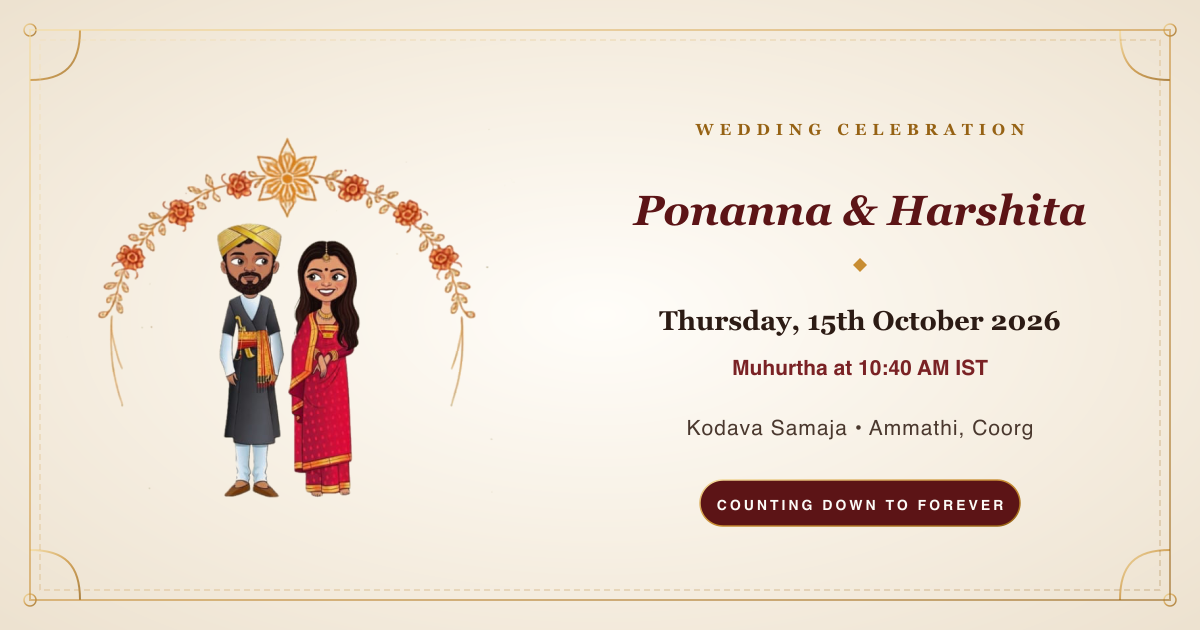
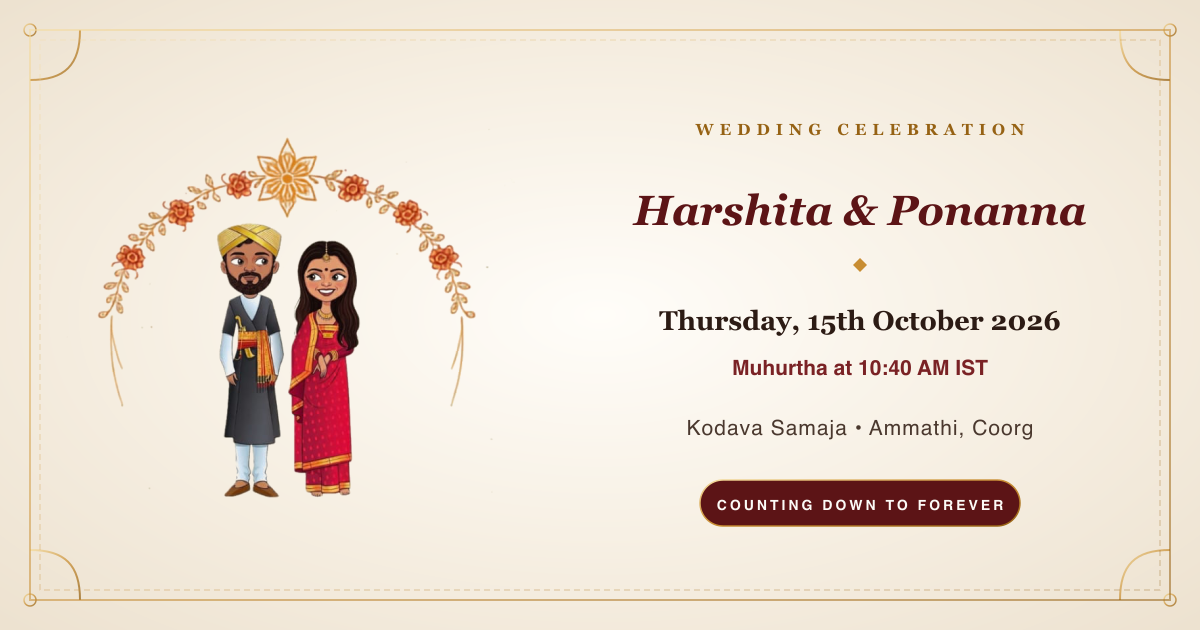
feat: place Harshita's name first across site, calendar, and preview card

Changed region(s): [[0.5242, 0.3016, 0.8942, 0.3619]]

diff --git a/index.html b/index.html
@@ -3,25 +3,25 @@
 <head>
   <meta charset="UTF-8" />
   <meta name="viewport" content="width=device-width, initial-scale=1.0, viewport-fit=cover" />
-  <title>Ponanna &amp; Harshita — Wedding Countdown</title>
-  <meta name="description" content="You are cordially invited to celebrate the wedding of Ponanna &amp; Harshita on Thursday, October 15, 2026 at Kodava Samaja, Ammathi, Coorg." />
+  <title>Harshita &amp; Ponanna — Wedding Countdown</title>
+  <meta name="description" content="You are cordially invited to celebrate the wedding of Harshita &amp; Ponanna on Thursday, October 15, 2026 at Kodava Samaja, Ammathi, Coorg." />
 
   <!-- WhatsApp & Social OpenGraph Tags -->
   <meta property="og:type" content="website" />
   <meta property="og:url" content="https://harshita.weds.ponanna.com/" />
-  <meta property="og:title" content="Ponanna &amp; Harshita — Wedding Countdown" />
-  <meta property="og:description" content="You are cordially invited to celebrate the wedding of Ponanna &amp; Harshita on October 15, 2026 at Kodava Samaja, Ammathi, Coorg. Counting down the moments to forever!" />
+  <meta property="og:title" content="Harshita &amp; Ponanna — Wedding Countdown" />
+  <meta property="og:description" content="You are cordially invited to celebrate the wedding of Harshita &amp; Ponanna on October 15, 2026 at Kodava Samaja, Ammathi, Coorg. Counting down the moments to forever!" />
   <meta property="og:image" content="https://harshita.weds.ponanna.com/assets/og-preview.png" />
   <meta property="og:image:secure_url" content="https://harshita.weds.ponanna.com/assets/og-preview.png" />
   <meta property="og:image:type" content="image/png" />
   <meta property="og:image:width" content="1200" />
   <meta property="og:image:height" content="630" />
-  <meta property="og:image:alt" content="Ponanna &amp; Harshita Wedding Countdown" />
+  <meta property="og:image:alt" content="Harshita &amp; Ponanna Wedding Countdown" />
 
   <!-- Twitter Card -->
   <meta name="twitter:card" content="summary_large_image" />
-  <meta name="twitter:title" content="Ponanna &amp; Harshita — Wedding Countdown" />
-  <meta name="twitter:description" content="You are cordially invited to celebrate the wedding of Ponanna &amp; Harshita on October 15, 2026 at Kodava Samaja, Ammathi, Coorg." />
+  <meta name="twitter:title" content="Harshita &amp; Ponanna — Wedding Countdown" />
+  <meta name="twitter:description" content="You are cordially invited to celebrate the wedding of Harshita &amp; Ponanna on October 15, 2026 at Kodava Samaja, Ammathi, Coorg." />
   <meta name="twitter:image" content="https://harshita.weds.ponanna.com/assets/og-preview.png" />
 
   <!-- Favicon -->
@@ -64,13 +64,13 @@
     <!-- Top Monogram & Traditional Motif -->
     <header class="hero-header">
       <div class="hero-illustration-wrapper">
-        <img src="assets/couple-illustration.png" alt="Ponanna &amp; Harshita" class="hero-illustration" width="340" height="280" />
+        <img src="assets/couple-illustration.png" alt="Harshita &amp; Ponanna" class="hero-illustration" width="340" height="280" />
       </div>
       <p class="wedding-proclamation">YOU ARE CORDIALLY INVITED TO CELEBRATE THE WEDDING OF</p>
       <h1 class="couple-title">
-        <span class="name">Ponanna</span>
-        <span class="conjunction">&amp;</span>
         <span class="name">Harshita</span>
+        <span class="conjunction">&amp;</span>
+        <span class="name">Ponanna</span>
       </h1>
       <div class="ornate-divider">
         <span class="line"></span>
@@ -117,7 +117,7 @@
         <div class="celebration-content">
           <div class="celebration-icon">💍</div>
           <h2>The Auspicious Day is Here!</h2>
-          <p>Celebrating the wedding of Ponanna &amp; Harshita</p>
+          <p>Celebrating the wedding of Harshita &amp; Ponanna</p>
         </div>
       </div>
     </section>
@@ -321,7 +321,7 @@
     // 5. Initialize WhatsApp Share Link
     const shareUrl = window.location.href;
     const shareText = encodeURIComponent(
-      `Join us in counting down to Ponanna & Harshita's Wedding! 💍✨\nThursday, October 15, 2026 • Kodava Samaja, Ammathi, Coorg\n${shareUrl}`
+      `Join us in counting down to Harshita & Ponanna's Wedding! 💍✨\nThursday, October 15, 2026 • Kodava Samaja, Ammathi, Coorg\n${shareUrl}`
     );
     const whatsappShareBtn = document.getElementById('whatsapp-share');
     whatsappShareBtn.href = `https://api.whatsapp.com/send?text=${shareText}`;

diff --git a/js/calendar.js b/js/calendar.js
@@ -2,8 +2,8 @@
 
 export function getWeddingEventDetails() {
   return {
-    title: "Ponanna & Harshita's Wedding",
-    description: "Join us in celebrating the wedding of Ponanna & Harshita at Kodava Samaja, Ammathi, Coorg!",
+    title: "Harshita & Ponanna's Wedding",
+    description: "Join us in celebrating the wedding of Harshita & Ponanna at Kodava Samaja, Ammathi, Coorg!",
     location: "Kodava Samaja, Ammathi, Kodagu (Coorg), Karnataka, India",
     // 10:40 AM IST = 05:10 AM UTC
     startUtcIso: "20261015T051000Z",
